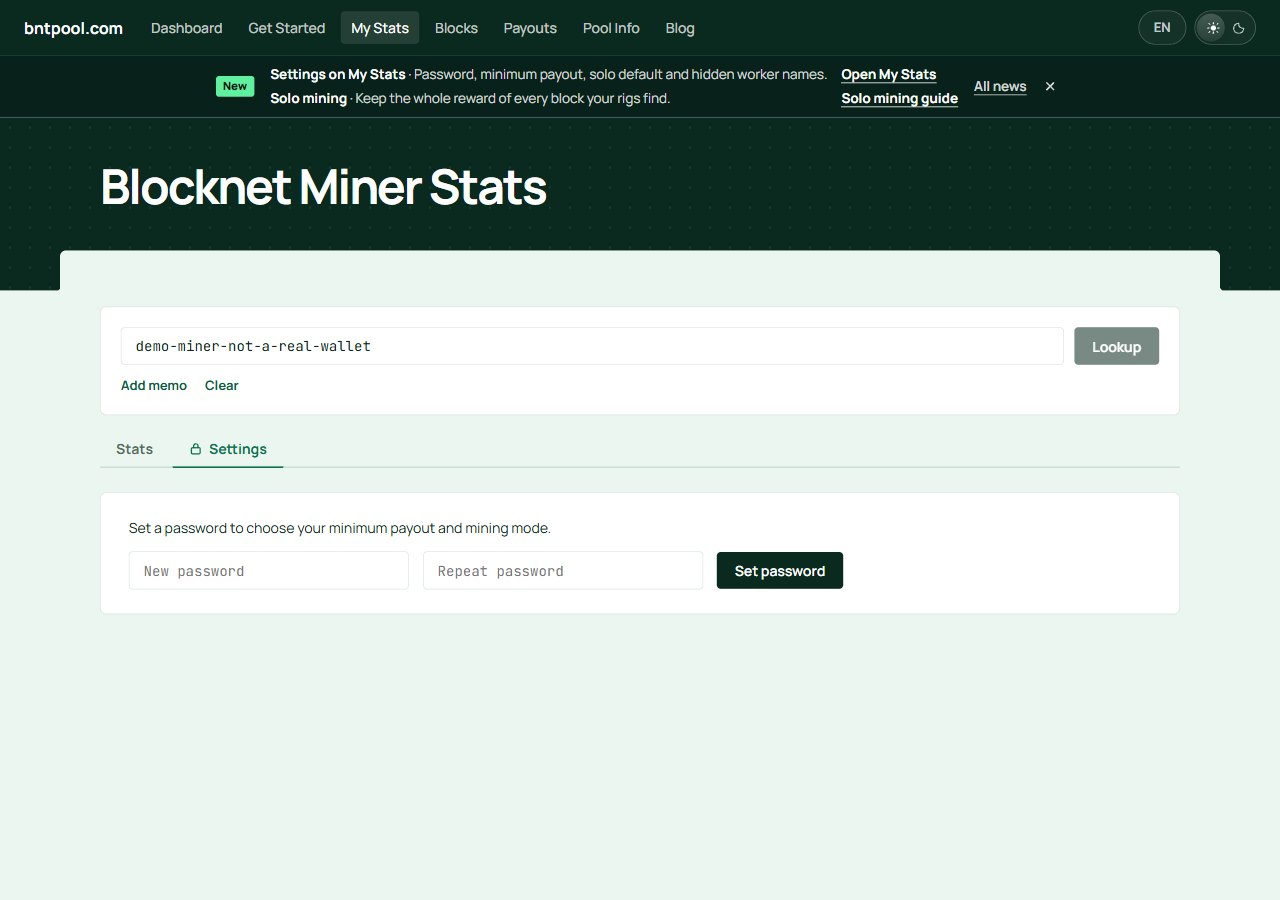
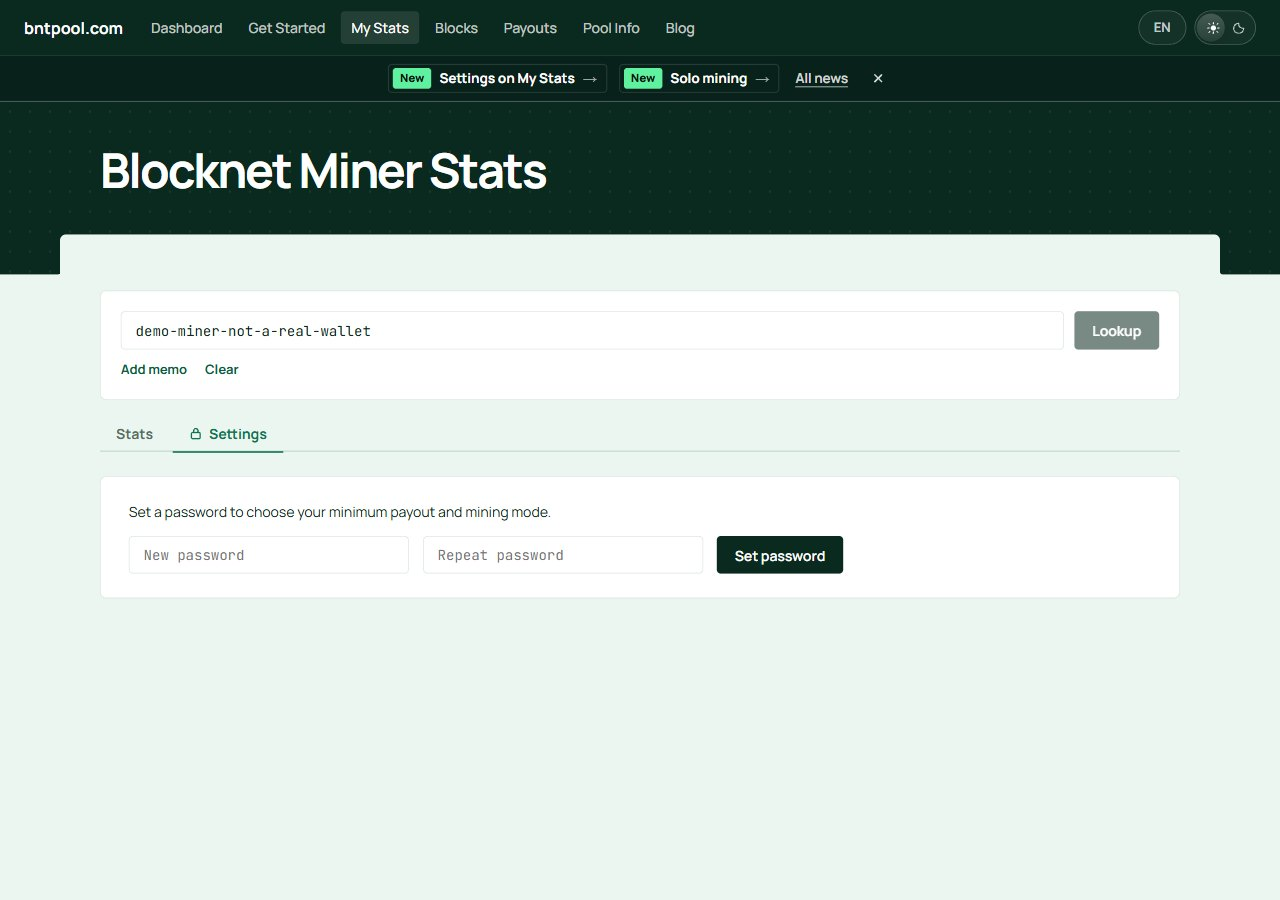
Show each pool news item in the strip as its own chip
Each of the two newest items is an outlined chip with a New tag, its
title and an arrow, linking to the item, followed by All news and the
dismiss button. The one-line summaries are gone, so their strings are
removed from every catalog.

Claude-Session: https://claude.ai/code/session_01X8haTGt1kjTYFpCBSubuty

diff --git a/frontend/src/styles.css b/frontend/src/styles.css
@@ -2573,15 +2573,15 @@ html { scroll-padding-top: 72px; }
 
 /* Pool news: a one-line strip under the menu with the newest item, the /news archive, and a dot on the tab an item announces. */
 .news-strip { background: #08211a; color: #ffffff; border-bottom: 1px solid rgba(255, 255, 255, 0.1); font-size: 13.5px; }
-.news-strip-inner { max-width: 1120px; margin: 0 auto; padding: 8px 20px; display: grid; grid-template-columns: auto minmax(0, auto) auto; justify-content: center; align-items: center; gap: 6px 16px; }
-.news-strip-items { list-style: none; margin: 0; padding: 0; display: grid; grid-template-columns: minmax(0, auto) auto; gap: 4px 14px; min-width: 0; }
-.news-strip-items li { grid-column: 1 / -1; display: grid; grid-template-columns: subgrid; align-items: baseline; min-width: 0; }
-.news-strip-actions { display: flex; align-items: center; gap: 10px; }
-.news-strip-tag { padding: 2px 7px; border-radius: 3px; background: #5ff0a0; color: #04150c; font-size: 11.5px; font-weight: 800; line-height: 1.5; }
-.news-strip-text { min-width: 0; color: rgba(255, 255, 255, 0.82); }
-.news-strip-text strong { color: #ffffff; }
-.news-strip a { color: #ffffff; font-weight: 700; text-decoration: underline; text-underline-offset: 3px; }
-.news-strip a.news-strip-all { font-weight: 600; color: rgba(255, 255, 255, 0.82); }
+.news-strip-inner { max-width: 1120px; margin: 0 auto; padding: 8px 20px; display: flex; flex-wrap: wrap; justify-content: center; align-items: center; gap: 8px 16px; }
+.news-strip-items { list-style: none; margin: 0; padding: 0; display: flex; flex-wrap: wrap; gap: 8px 12px; min-width: 0; }
+.news-strip-items li { min-width: 0; }
+.news-strip a.news-strip-chip { display: inline-flex; align-items: center; gap: 8px; max-width: 100%; padding: 3px 10px 3px 4px; border: 1px solid rgba(255, 255, 255, 0.16); border-radius: 4px; color: #ffffff; font-weight: 700; text-decoration: none; }
+.news-strip a.news-strip-chip:hover { background: rgba(255, 255, 255, 0.06); border-color: rgba(255, 255, 255, 0.3); }
+.news-strip-tag { flex: none; padding: 2px 7px; border-radius: 3px; background: #5ff0a0; color: #04150c; font-size: 11.5px; font-weight: 800; line-height: 1.5; }
+.news-strip-arrow { flex: none; color: rgba(255, 255, 255, 0.6); }
+[dir='rtl'] .news-strip-arrow { transform: scaleX(-1); }
+.news-strip a.news-strip-all { color: rgba(255, 255, 255, 0.82); font-weight: 600; text-decoration: underline; text-underline-offset: 3px; }
 .news-strip a:focus-visible, .news-strip button:focus-visible { outline: 2px solid #ffffff; outline-offset: 2px; }
 .news-strip-close { display: grid; place-items: center; width: 28px; height: 28px; padding: 0; border: 0; border-radius: 4px; background: none; color: rgba(255, 255, 255, 0.82); cursor: pointer; }
 .news-strip-close:hover { color: #ffffff; background: rgba(255, 255, 255, 0.08); }
@@ -2598,10 +2598,8 @@ html { scroll-padding-top: 72px; }
 .news-entry a { font-size: 14px; font-weight: 700; color: var(--accent-strong); }
 .tab-new-dot { display: inline-block; width: 7px; height: 7px; margin-inline-start: 6px; border-radius: 50%; background: #16c172; vertical-align: 2px; }
 @media (max-width: 640px) {
-  .news-strip-short, .news-strip a.news-strip-all { display: none; }
-  .news-strip-inner { grid-template-columns: auto minmax(0, 1fr) auto; justify-content: stretch; padding: 8px 16px; gap: 6px 10px; }
-  .news-strip-items { grid-template-columns: minmax(0, 1fr); gap: 4px; }
-  .news-strip-items li { display: block; }
-  .news-strip-items a { margin-inline-start: 10px; }
+  .news-strip a.news-strip-all { display: none; }
+  .news-strip-inner { flex-wrap: nowrap; justify-content: flex-start; align-items: flex-start; padding: 8px 16px; gap: 10px; }
+  .news-strip-items { flex: 1; }
   .news-timeline li { grid-template-columns: minmax(0, 1fr); gap: 6px; padding: 18px; }
 }

diff --git a/frontend/src/components/News.tsx b/frontend/src/components/News.tsx
@@ -18,27 +18,25 @@ const body = (item: NewsItem) => tx(item.bodyKey, [SOLO]);
 
 const CLOSE = <svg viewBox="0 0 16 16" width="14" height="14" aria-hidden="true"><path d="M4 4l8 8M12 4l-8 8" stroke="currentColor" strokeWidth="1.8" strokeLinecap="round" /></svg>;
 
-/** Up to STRIP_LIMIT lines under the menu with the newest fresh items; hidden once none is fresh or the visitor dismisses them. */
+/** Up to STRIP_LIMIT items under the menu, one chip each; hidden once none is fresh or the visitor dismisses them. */
 export function NewsStrip() {
   const [items, setItems] = useState(() => stripNews());
   if (!items.length) return null;
   return (
     <div className="news-strip" role="region" aria-label={t('newsNav')}>
       <div className="news-strip-inner">
-        <span className="news-strip-tag">{t('newsNew')}</span>
         <ul className="news-strip-items">
           {items.map((item) => (
             <li key={item.titleKey}>
-              <span className="news-strip-text"><strong>{t(item.titleKey)}</strong><span className="news-strip-short"><span aria-hidden="true"> · </span>{t(item.shortKey)}</span></span>
-              <a href={newsHref(item.href)}>{t(item.linkKey)}</a>
+              <a className="news-strip-chip" href={newsHref(item.href)}>
+                <span className="news-strip-tag">{t('newsNew')}</span>{t(item.titleKey)}<span className="news-strip-arrow" aria-hidden="true">→</span>
+              </a>
             </li>
           ))}
         </ul>
-        <div className="news-strip-actions">
-          <a className="news-strip-all" href={localizePath('/news')}>{t('newsAll')}</a>
-          <button type="button" className="news-strip-close" aria-label={t('newsDismiss')} title={t('newsDismiss')}
-            onClick={() => { dismissStripNews(items); setItems([]); }}>{CLOSE}</button>
-        </div>
+        <a className="news-strip-all" href={localizePath('/news')}>{t('newsAll')}</a>
+        <button type="button" className="news-strip-close" aria-label={t('newsDismiss')} title={t('newsDismiss')}
+          onClick={() => { dismissStripNews(items); setItems([]); }}>{CLOSE}</button>
       </div>
     </div>
   );

diff --git a/frontend/src/lib/news.ts b/frontend/src/lib/news.ts
@@ -5,8 +5,6 @@ export interface NewsItem {
   date: string;
   titleKey: string;
   bodyKey: string;
-  /** One short sentence for the news strip under the menu. */
-  shortKey: string;
   linkKey: string;
   href: string;
   /** The tab this item announces; it carries a "new" dot until opened. */
@@ -16,11 +14,11 @@ export interface NewsItem {
 export type Feature = 'settings';
 
 export const NEWS: readonly NewsItem[] = [
-  { date: '2026-11-04', titleKey: 'newsSettingsTitle', bodyKey: 'newsSettingsBody', shortKey: 'newsSettingsShort', linkKey: 'newsSettingsLink',
+  { date: '2026-11-04', titleKey: 'newsSettingsTitle', bodyKey: 'newsSettingsBody', linkKey: 'newsSettingsLink',
     href: '/stats#settings', feature: 'settings' },
-  { date: '2026-11-04', titleKey: 'newsSoloTitle', bodyKey: 'newsSoloBody', shortKey: 'newsSoloShort', linkKey: 'newsSoloLink',
+  { date: '2026-11-04', titleKey: 'newsSoloTitle', bodyKey: 'newsSoloBody', linkKey: 'newsSoloLink',
     href: '/blog/solo-mine-blocknet-on-bntpool/' },
-  { date: '2026-11-02', titleKey: 'newsMinPayoutTitle', bodyKey: 'newsMinPayoutBody', shortKey: 'newsMinPayoutShort', linkKey: 'newsMinPayoutLink',
+  { date: '2026-11-02', titleKey: 'newsMinPayoutTitle', bodyKey: 'newsMinPayoutBody', linkKey: 'newsMinPayoutLink',
     href: '/info#minimum-payout' },
 ];
 

diff --git a/frontend/showcases/pool-news/README.md b/frontend/showcases/pool-news/README.md
@@ -6,8 +6,8 @@ http://localhost:5201/showcases/front-page/?state=first&news=on for the front pa
 the archive. Add `theme=dark`, `lang=ar` or `chrome=off` as usual. Every state uses synthetic data.
 
 - News strip: under the menu on every page except `/news`, Admin and the wallet. It shows the two newest items
-  from the last 30 days, one line each with the title, a short summary and the item's link, beside one New tag,
-  All news and a dismiss button. Phones keep the tag, titles, links and dismiss button. Dismissing hides the
+  from the last 30 days, each as an outlined chip (New tag, title, arrow) linking to the item, then All news and
+  a dismiss button. Phones drop All news and let the chips wrap. Dismissing hides the
   items shown; later items still appear. With nothing from the last 30 days there is no strip.
 - `/news`: every published item, newest first, with a New chip on items from the last 30 days. It is linked
   from the strip and the footer (not the main menu), listed in the sitemap and prerendered in every language.

diff --git a/frontend/showcases/front-page/README.md b/frontend/showcases/front-page/README.md
@@ -35,7 +35,7 @@ pool, explorer or analytics endpoint. States:
   from the last 30 days.
 
 Add `news=on` to any state to see pool news as a visitor who hasn't dismissed it: a strip under the menu on
-every page except the archive, with the two newest items from the last 30 days (one line each, with its link),
+every page except the archive, with the two newest items from the last 30 days (one linked chip each),
 All news and a dismiss button, and a dot on the My Stats Settings tab until Settings is opened once. Without it every state
 shows the page as it looks once the news is dismissed. News captures live in `../pool-news/captures/`.
 
